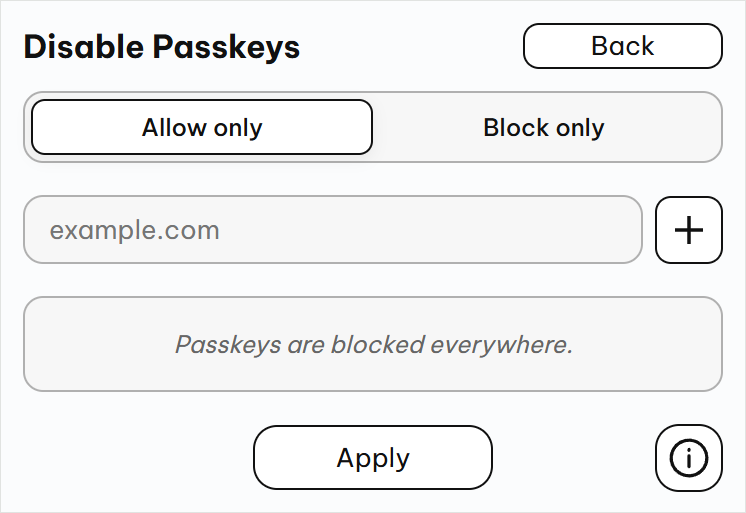
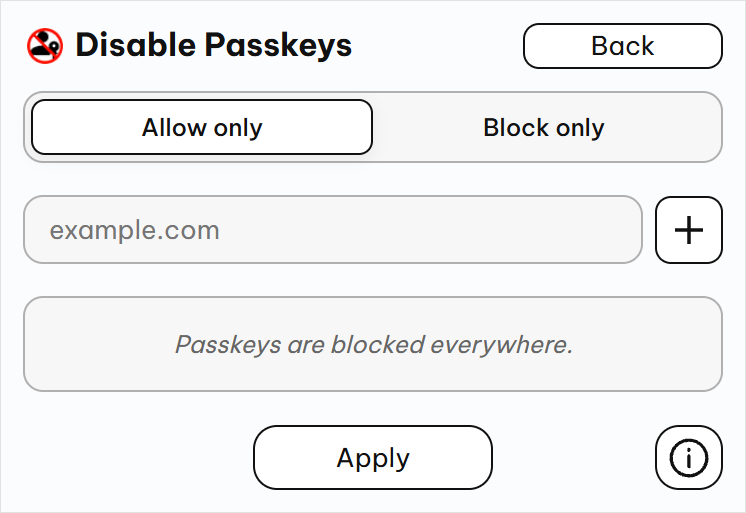
version 3.0.0

diff --git a/readme.md b/readme.md
@@ -17,7 +17,7 @@ A small Chrome and Firefox extension to block passkey (WebAuthn) prompts and the
 </div>
 
 ## Why this?
-As of 2026, this is the **only way** to truly and completely disable passkey prompts and passkey autofill in Chrome, and the only way to have granular per-site control in Firefox.
+As of 2026, this is the **only way** to truly and completely disable passkey prompts and passkey autofill in Chrome, and to have granular control over which ones you still see, by type and by site.
 
 This project exists to give **control back to the user**.
 
@@ -28,18 +28,12 @@ Passkeys are increasingly pushed by browsers and websites, but they can:
 - Break automation or specific password-based workflows
 
 ## What does it do?
-This extension **disables WebAuthn requests** and can be configured to block passkey login, creation, or both. Passkey entries in autofill will be blocked as well.
+This extension **blocks WebAuthn requests** and can be configured to block passkey login prompts, passkey creation prompts, and passkey autofill suggestions, independently.
 
 <p align="center">
 <img src="assets/main.png" alt="Main page" width="373" hspace="10">
 <img src="assets/filters.png" alt="Filters page" width="373" hspace="10">
 </p>
-
-The new [v2.x](https://github.com/theconfax/disable-passkeys/releases/tag/v2.0.0) blocking engine turns off the browser's native WebAuthn support while letting password managers create and log in with their own passkeys.
-
-This disables the native passkey autofill prompt but lets you use passkeys with your manager of choice, resulting in a cleaner experience.
-
-Unfortunately, on Chrome with [conflicting ad-blockers](https://github.com/theconfax/disable-passkeys/releases/tag/v2.1.0) or on [Firefox](https://github.com/theconfax/disable-passkeys/releases/tag/v2.1.1), we must block 3rd-party password managers' ability to use passkeys too, so you will need to whitelist the specific domains you'd want to use your password manager passkeys on.
 
 ### Other features:
 - Whitelist/blacklist domain filters
@@ -69,8 +63,9 @@ Unfortunately, on Chrome with [conflicting ad-blockers](https://github.com/theco
 ## Usage
 ### Main page
 In the main page of the popup you can choose to selectively block/allow:
-- ✅❌ Passkey Login/Autofill (Blocking WebAuthn `get()`)
-- ✅❌ Passkey Creation (Blocking WebAuthn `create()`)
+- ✅🚫 Passkey Login (WebAuthn `get()`, modal)
+- ✅🚫 Passkey Autofill (WebAuthn `get()`, conditional mediation)
+- ✅🚫 Passkey Creation (WebAuthn `create()`)
 
 This page will also inform you if you have some filters active or if the extension is set to off.
 
@@ -82,7 +77,7 @@ In the advanced page of the popup you can:
 Domains can be inserted in pretty much every format you like and will be parsed into something like `example.com`. You can also block IPv4s, IPv6s, and `localhost`.
 
 ### Action icon
-The action icon will display if the extension is on with the presence/absence of a 🚫.
+The action icon shows a 🚫 when the extension is set to block something, and drops it when it isn't.
 
 The action icon will flash a green `!` when WebAuthn is being blocked, interventions are counted in the "About" page.
 
